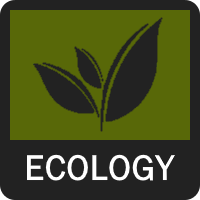
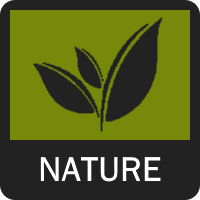
few more questions + ecology -> nature

diff --git a/questions.js b/questions.js
@@ -376,15 +376,15 @@ questions = [
         }
     },
 	{
-		"question": "Mass foreign immigration policies are naïve and should not be implemented.",
+		"question": "Any socialist country should be dedicated to exporting their ideology abroad.",
         "effect": {
             "a": 0,
             "b": 0,
             "c": 0,
-            "d": -10,
+            "d": 10,
 			"e": 0,
 			"f": 0,
-			"g": 5
+			"g": 0
         }
     },
 	{
@@ -485,7 +485,7 @@ questions = [
         }
     },
 	{
-		"question": "Only a mass workers party can achieve any meaningful goals.",
+		"question": "Only a mass workers party can achieve any meaningful long-term goals.",
         "effect": {
             "a": 0,
             "b": 0,
@@ -525,9 +525,21 @@ questions = [
         "effect": {
             "a": 0,
             "b": 0,
+            "c": -5,
+            "d": 0,
+			"e": -5,
+			"f": 0,
+			"g": 0
+        }
+    },
+	{
+		"question": "Trade unionism has been largely corrupted by the ruling class and is no longer a viable structure for a socialist organization.",
+        "effect": {
+            "a": 0,
+            "b": 0,
             "c": 0,
             "d": 0,
-			"e": -10,
+			"e": 5,
 			"f": 0,
 			"g": 0
         }
@@ -642,7 +654,7 @@ questions = [
         }
     },
 	{
-		"question": "Human population growth must be curbed to prevent an ecological disaster. ",
+		"question": "Human population growth must be curbed to prevent an ecological disaster.",
         "effect": {
             "a": 0,
             "b": 0,
@@ -650,7 +662,7 @@ questions = [
             "d": 0,
 			"e": 0,
 			"f": -5,
-			"g": 0
+			"g": 5
         }
     },
 	{
@@ -662,6 +674,18 @@ questions = [
             "d": 0,
 			"e": 0,
 			"f": 5,
+			"g": 0
+        }
+    },
+	{
+		"question": "Humanity must return to the primitive ways of the past to overcome long-term climate issues.",
+        "effect": {
+            "a": 0,
+            "b": 0,
+            "c": 0,
+            "d": 0,
+			"e": 0,
+			"f": -5,
 			"g": 0
         }
     },
@@ -703,15 +727,15 @@ questions = [
         }
     },
 	{
-		"question": "Marriage is a positive way of forging bonds between partners.",
+		"question": "Marriage is a patriarchal social construct that should be phased out.",
         "effect": {
             "a": 0,
-            "b": 0,
+            "b": 5,
             "c": 0,
             "d": 0,
 			"e": 0,
 			"f": 0,
-			"g": 5
+			"g": -5
         }
     },
 	{
@@ -727,7 +751,7 @@ questions = [
         }
     },
 	{
-		"question": "Religion has a mostly positive effect and should remain influential in society.",
+		"question": "Religions overall have a mostly positive effect and should remain influential in society.",
         "effect": {
             "a": 0,
             "b": 0,
@@ -751,7 +775,7 @@ questions = [
         }
     },
 	{
-		"question": "A socialist government has no right to disrupt religious or cultural traditions.",
+		"question": "A socialist government has no right to disrupt religious or cultural traditions in any situation.",
         "effect": {
             "a": 0,
             "b": 0,
@@ -760,6 +784,30 @@ questions = [
 			"e": 0,
 			"f": 0,
 			"g": 10
+        }
+    },
+	{
+		"question": "Prisons are oppressive and antiquated institutions that need to be abolished.",
+        "effect": {
+            "a": 0,
+            "b": 0,
+            "c": 0,
+            "d": 0,
+			"e": 0,
+			"f": 0,
+			"g": -5
+        }
+    },
+	{
+		"question": "Mass foreign immigration policies are naïve and should not be implemented.",
+        "effect": {
+            "a": 0,
+            "b": 0,
+            "c": 0,
+            "d": 0,
+			"e": 0,
+			"f": 0,
+			"g": 5
         }
     },
 	{

diff --git a/index.html b/index.html
@@ -29,14 +29,14 @@
         Those with a higher international score tend to support forming an international socialist movement, often with the eventual goal of abolishing nations. Those with a higher national score tend to prioritize building socialism within existing borders and reject the goal of a world socialist republic.</p>
 	<p class="value-description"><b style="color:#963B33;">Party</b> <b>vs.</b> <b style="color:#7F333B;">Union</b><br/>
         Those with a higher party score tend to favor using political parties as the basis of a socialist movement. Those with a higher union score tend to favor using trade unions and other forms of mass organization as a basis of a socialist movement. Being pro-party does not necessarily mean you oppose unions and vice versa, it is more about preference.</p>
-	<p class="value-description"><b style="color:#804E00;">Production</b> <b>vs.</b> <b style="color:#586808;">Ecology</b><br/>
-        Those with a higher production score tend to prioritize industrial output and self-sustainability over ecological goals. Those with a higher ecological score tend to support an environmentally oriented economy with strict ecological protections.</p>
-	<p class="value-description"><b>New: </b><b style="color:#27577A;">Conservative</b> <b>vs.</b> <b style="color:#C4A717;">Progressive</b><br/>
+	<p class="value-description"><b style="color:#804E00;">Production</b> <b>vs.</b> <b style="color:#586808;">Nature</b><br/>
+        Those with a higher production score tend to prioritize industrial output and self-sustainability over ecological goals. Those with a higher nature score tend to support an environmentally oriented economy with strict ecological protections. Those with an extremely high nature score may support naturist or primitivist policies.</p>
+	<p class="value-description"><b style="color:#27577A;">Conservative</b> <b>vs.</b> <b style="color:#C4A717;">Progressive</b><br/>
         Those with a higher conservative score tend to favor more socially conservative policies and views. Those with a higher progressive score tend to support more socially progressive policies and views.</p>
 <h2>What does "Closest Match" mean in the results?</h2>
     <p>Similar to 8values, this quiz will attempt to match you with a specific leftist ideology. There are currently twelve possible ideologies, with more to come in the future. This is a work in progress and may not work as intended. Suggestions are very welcome. The current ideologies are: Marxism-Leninism, Orthodox Marxism, Eco-Marxism, Centrist Marxism, Council Communism, Left Communism, Anarcho-Communism, Eco-Anarchism, Market Anarchism, Utopian Socialism, Democratic Socialism and Social Democracy.</p>
 <h2>I don't like my scores!</h2>
-    <p>If you have any suggestions or constructive criticism please fill out this <a href="https://forms.gle/6WZYMb5GXkkDLhxr5">short form</a> or open an issue on the <a href="https://github.com/LeftValues/leftvalues.github.io">GitHub Page</a>.</p>
+    <p>Please remember that you are not intended to get a 100% score in any of the categories. The point of the quiz is to challenge your views. If you have any suggestions or constructive criticism please fill out this <a href="https://forms.gle/6WZYMb5GXkkDLhxr5">short form</a> or open an issue on the <a href="https://github.com/LeftValues/leftvalues.github.io">GitHub Page</a>.</p>
 <h2>Am I being tracked?</h2>
     <p>LeftValues does utilize very basic tracking to get an idea of the amount of visitors. No personal information is collected and answers/results are not saved. If you do not believe me, the code is open source and available for all to see.</p>
 	<p><br/><br/>

diff --git a/results.html b/results.html
@@ -70,7 +70,7 @@
 <p><br>You can send these results by copying and pasting the URL at the top of the page or using the image below.</p>
 
 <h2>I don't like my scores!</h2>
-    <p>If you have any suggestions or constructive criticism please fill out this <a href="https://forms.gle/6WZYMb5GXkkDLhxr5">short form</a> or open an issue on the <a href="https://github.com/LeftValues/leftvalues.github.io">GitHub Page</a>.</p>
+    <p>Please remember that you are not intended to get a 100% score in any of the categories. The point of the quiz is to challenge your views. If you have any suggestions or constructive criticism please fill out this <a href="https://forms.gle/6WZYMb5GXkkDLhxr5">short form</a> or open an issue on the <a href="https://github.com/LeftValues/leftvalues.github.io">GitHub Page</a>.</p>
 <hr/>
 <canvas id="banner" width=800 height=1000 style="font-family:Montserrat"></canvas>
 <button class="button" onclick="location.href='index.html';" style="background-color: #2196f3;">Back</button> <br>
@@ -115,7 +115,7 @@ Analytics"></a></div></noscript>
     cArray = ["Extremely Centralist","Very Centralist","Centralist","Neutral","Decentralist","Very Decentralist","Extremely Decentralist"]
     dArray = ["Extremely Internationalist","Very Internationalist","Internationalist","Neutral","Nationalist","Very Nationalist","Extremely Nationalist"]
 	eArray = ["Extremely Leans Party","Highly Leans Party","Leans Party","Neutral","Leans Union","Highly Leans Union","Extremely Leans Union"]
-	fArray = ["Extremely Productivist","Very Productivist","Productivist","Neutral","Ecological","Very Ecological","Extremely Ecological"]
+	fArray = ["Extremely Productivist","Very Productivist","Productivist","Neutral","Naturist","Very Naturist","Extremely Naturist"]
 	gArray = ["Extremely Conservative","Very Conservative","Conservative","Neutral","Progressive","Very Progressive","Extremely Progressive"]
 
     function setLabel(val,ary) {
@@ -262,7 +262,7 @@ Analytics"></a></div></noscript>
         ctx.fillRect(682-5.6*union, 664, 5.6*union-2, 72)
 		ctx.fillStyle="#804E00"
         ctx.fillRect(120, 784, 5.6*industry-2, 72)
-        ctx.fillStyle="#586808"
+        ctx.fillStyle="#76890B"
         ctx.fillRect(682-5.6*ecology, 784, 5.6*ecology-2, 72)
 		ctx.fillStyle="#27577A"
         ctx.fillRect(120, 904, 5.6*conservative-2, 72)

diff --git a/style.css b/style.css
@@ -203,7 +203,7 @@ div.industry {
     border-right-style: solid;
 }
 div.ecology {
-    background-color: #586808;
+    background-color: #76890B;
     text-align: right;
     border-left-style: solid;
 }
